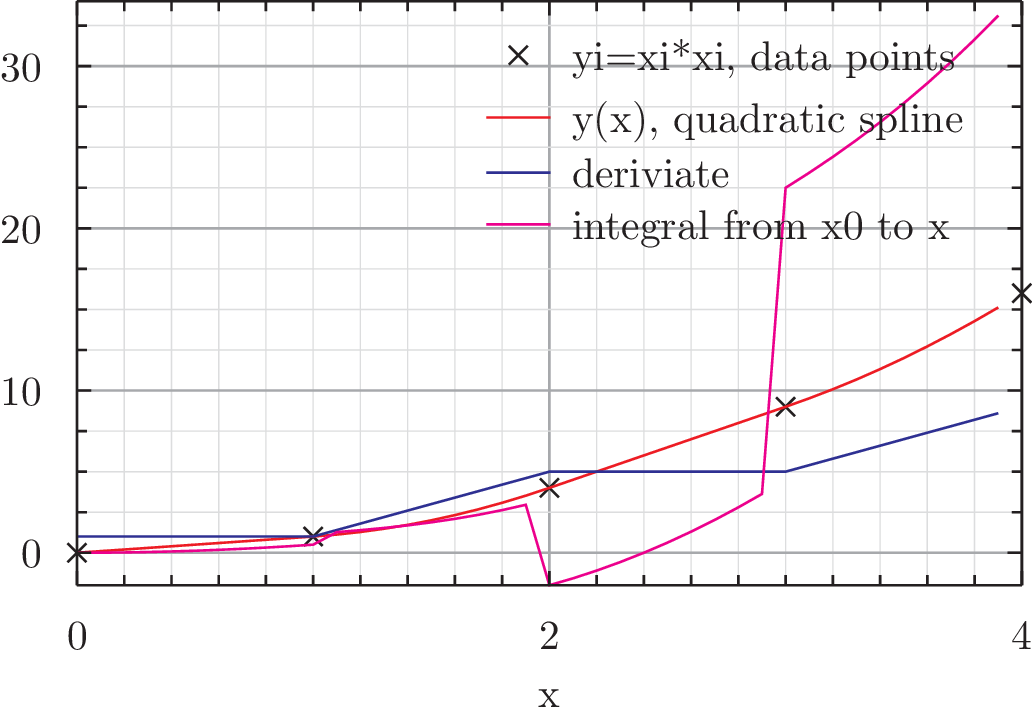
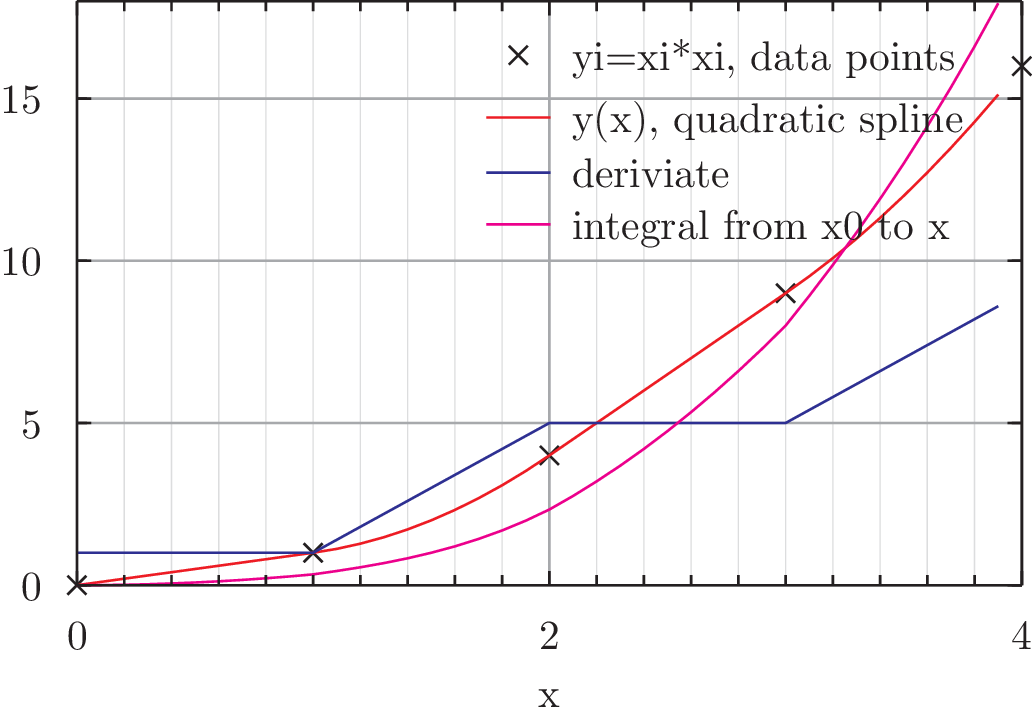
working on spline part B

diff --git a/homework/splines/B/qspline.cs b/homework/splines/B/qspline.cs
@@ -39,8 +39,12 @@ public class qspline {
 
 
 	public double integral(double z){
-		int i = binsearch(z); 
-		return (z-x[0])/6*(2*c[i]*(Pow(z,2)+x[0]*z+Pow(x[0],2)) + 6*c[i]*(Pow(x[i],2)-x[0]*x[i]-z*x[i]) +3*b[i]*(z+x[0]-2*x[i]) +6 *y[i]) ;
+		int j = binsearch(z); 
+		double val = 0; 
+		for(int i = 0; i < j; i++)
+			val +=  partint(i,x[i+1]);
+		val +=  partint(j,z);
+		return val;
 	}
 
 	int binsearch(double z){
@@ -57,6 +61,9 @@ public class qspline {
 			else j = m; 
 		}
 		return i; 
+	}
+	double partint(int i, double z){
+		return (z-x[i])/6*(2*c[i]*Pow(z,2)-4*c[i]*z*x[i]+2*c[i]*Pow(x[i],2)+2*b[i]*(z-x[i])+6*y[i]);
 	}
 
 }
